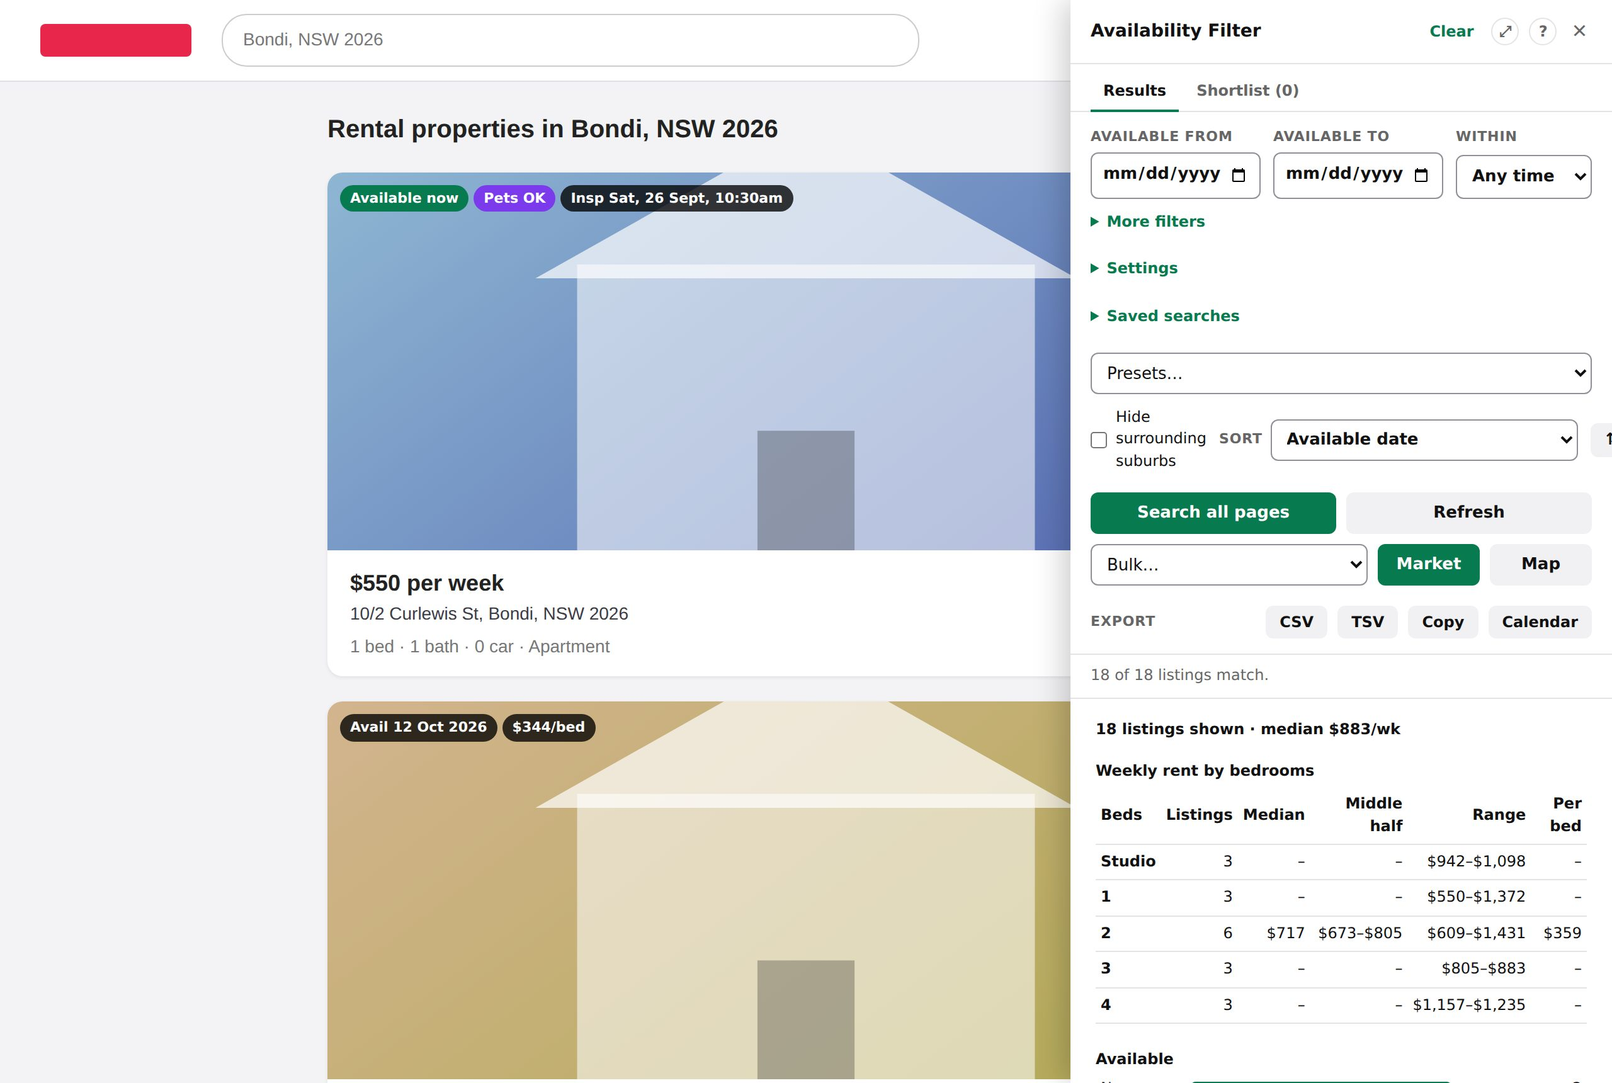
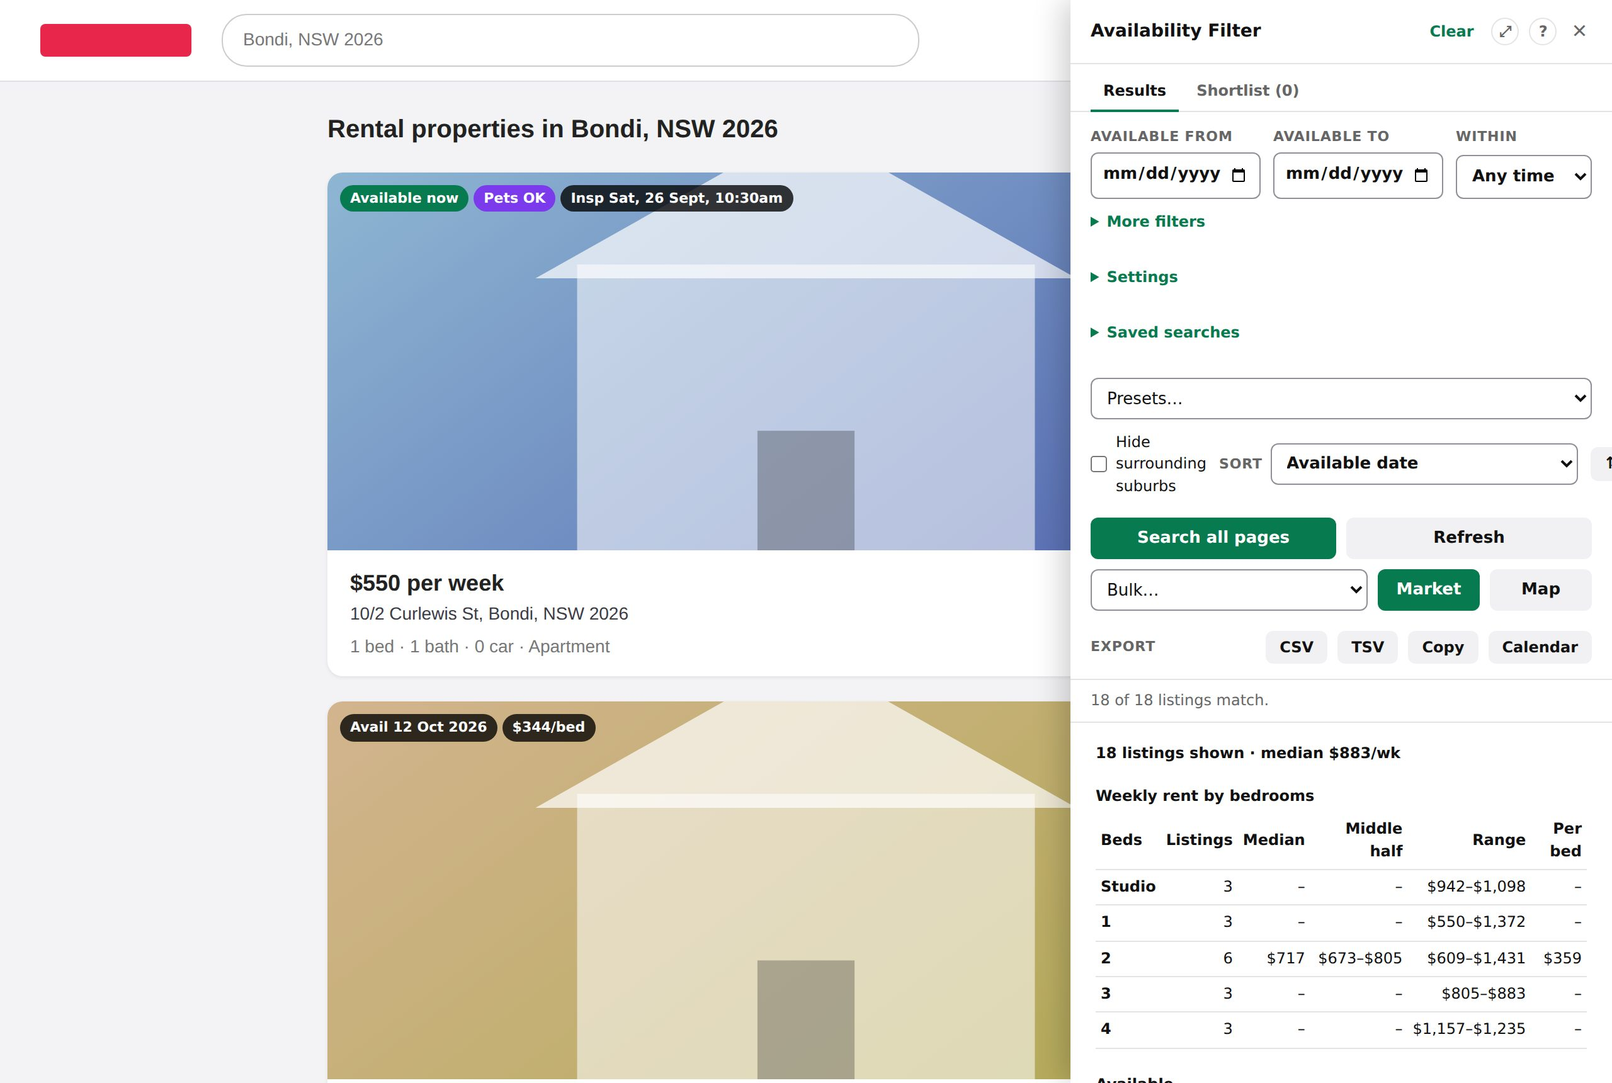
Bump 2.29.0; changelog, what's new, docs (safety copy in PRIVACY and ARCHITECTURE, release steps renumbered) and screenshots without the welcome note

diff --git a/rea-availability-filter.user.js b/rea-availability-filter.user.js
@@ -1,7 +1,7 @@
 // ==UserScript==
 // @name         REA Availability Filter
 // @namespace    https://github.com/cpwillis-pocs/rea-enhancement
-// @version      2.28.0
+// @version      2.29.0
 // @description  Availability-date filtering and sorting, extra filters, cross-page merging, on-card availability badges and CSV/TSV export for realestate.com.au rental searches.
 // @author       cpwillis
 // @homepageURL  https://github.com/cpwillis-pocs/rea-enhancement
@@ -5306,10 +5306,10 @@ ${r.note ? `<div class="n">${esc(r.note)}</div>` : ''}${checklist.length ? `<div
   const DRAWER_MIN = 360, DRAWER_MAX = 900, DRAWER_TWO_COL = 760;
   // Installs auto-update silently, so the drawer says once what changed (lint keeps this in step
   // with @version and the changelog). A first install gets WELCOME instead.
-  const WHATS_NEW = { version: '2.28.0', items: [
-    'Rate shortlisted places 1–5 after an inspection (Shift+1–5), and see your next stop on a listing page.',
-    'Restore now shows what it will change first, and can be undone.',
-    'The map keeps far-away places at its edge; about 1000 listings per search are now remembered.',
+  const WHATS_NEW = { version: '2.29.0', items: [
+    "A safety copy of your shortlist and settings: if this site's storage is wiped, the drawer offers it back.",
+    'Next stop on a listing page stays current and skips declined or taken places; bigger buttons on phones.',
+    "If REA changes its page format, the drawer now says so (with Copy report) instead of pausing as if blocked.",
   ] };
   const WELCOME = [
     'Set a date (or leave it blank) and press Search all pages to read every page of this search.',

diff --git a/test/e2e/screenshots.js b/test/e2e/screenshots.js
@@ -22,6 +22,7 @@ const SEARCH = `${ORIGIN}/rent/in-bondi,+nsw+2026/list-1`;
     await page.clock.install({ time: new Date('2026-09-23T10:00:00+10:00') }); // fixture dates stay meaningful
     await page.route('**/*', serve());
     if (seed) await page.addInitScript((v) => localStorage.setItem('rea-avail-filter/marks/v1', v), JSON.stringify(seed()));
+    await page.addInitScript(() => localStorage.setItem('rea-avail-filter/seen-version', '99.0.0')); // no welcome or what's-new note in the pictures
     await page.goto(url);
     await page.addScriptTag({ content: SCRIPT });
     await page.waitForSelector(ready);

diff --git a/docs/ROADMAP.md b/docs/ROADMAP.md
@@ -2,7 +2,7 @@
 
 Where the project stands, the decisions already taken, what is known not to work perfectly, and ideas that were considered but not built. The feature list is in the [README](../README.md), every change is in the [CHANGELOG](../CHANGELOG.md), and the internals are in [ARCHITECTURE.md](ARCHITECTURE.md).
 
-## Where it stands (v2.28.0)
+## Where it stands (v2.29.0)
 
 The project went from a single-purpose availability-date filter (1.0.0) to a full rental-search companion across 30+ releases. Each area below is built, unit- or e2e-tested, and described in the README.
 
@@ -14,8 +14,8 @@ The project went from a single-purpose availability-date filter (1.0.0) to a ful
 | **Inspecting** | The next stop and your checklist on the listing page, inspection times in the listing's time zone, a day planner with clash detection and a suggested route, calendar export with reminders, after-inspection prompts, cancelled-inspection notices. |
 | **Returning** | Remembered and pinned searches with new / gone listings and a rent trend, Check all, a daily reminder, presets bound to searches, share links, backup and restore. |
 | **Using it** | Side drawer that scrolls as one page (resizable, compact mode, reopens on the listing you were on after a reload, in Results and Shortlist) or expanded near full screen. Full keyboard control, dark mode (system, or set in Settings), phone layout, screen-reader labels (card buttons named per listing), High Contrast styles, a first-run welcome, badges and quick actions on REA's own cards, a bar on listing pages. |
-| **Keeping it working** | Several fallback field paths, discovery by shape, results found by shape if REA renames them, cards found without `<article>` (and a banner if none can be recognised), drift warnings, `reaFilter.selfcheck()` / `probe()` / `shape()` (paste-safe listing structure), storage-full warning, a size budget for remembered searches, a 10-minute pause after a bot check, a double-run guard, a one-time what's-new note after updates. |
-| **Project** | 197 unit tests (including shapes from `reaFilter.shape()`), 67 e2e scenario blocks plus a smoke flow (run three at a time in CI, `E2E_JOBS`), 98%+ UI line coverage, a lint for privacy and storage rules, SECURITY.md and PRIVACY.md, a local live check (`npm run live`), and an on-demand CI pipeline (PRs + manual; no push or schedule triggers, to save Actions minutes). |
+| **Keeping it working** | Several fallback field paths, discovery by shape, results found by shape if REA renames them, cards found without `<article>` (and a banner if none can be recognised), drift warnings, `reaFilter.selfcheck()` / `probe()` / `shape()` (paste-safe listing structure), storage-full warning, a safety copy in IndexedDB, a size budget for remembered searches, a 10-minute pause after a bot check, a double-run guard, a one-time what's-new note after updates. |
+| **Project** | 203 unit tests (including shapes from `reaFilter.shape()`), 70 e2e scenario blocks plus a smoke flow (run three at a time in CI, `E2E_JOBS`), 98%+ UI line coverage, a lint for privacy and storage rules, SECURITY.md and PRIVACY.md, a local live check (`npm run live`), and an on-demand CI pipeline (PRs + manual; no push or schedule triggers, to save Actions minutes). |
 
 ## Decisions already taken
 
@@ -44,24 +44,23 @@ These were raised as questions and settled by the maintainer. Don't reopen them 
 - **Storage is per browser** and shared with REA's own code. Backups (Settings) are the way to move data between browsers. Reviewed marks are only backed up for listings you also shortlisted, hid, noted or gave a status (so storage doesn't grow with every listing you look at).
 - **Floor size is only as good as the listing**: most rentals don't state it, and the text reading can pick a figure that isn't the internal area. Min m² leaves out listings that don't say.
 - **A challenge page that still carries results isn't detected** by the bot-check pause.
-- **Very large remembered searches stay over the size budget**: past about 1000 listings, even packed rows without text add up to more than 400K characters.
+- **Very large remembered searches stay over the size budget**: past about 1100 listings, even packed rows without text add up to more than 400K characters.
 - **The map is a flat projection with straight lines**: fine at suburb scale, no streets, and only listings REA gives coordinates for.
 - **Photo peek assumes REA serves an 800×600 version** of each photo. If it doesn't, the peek falls back to the thumbnail.
 
 ## Ideas not built yet
 
-Everything from the 2.27.0 audit (ten ideas, its bugs and its slow spots) shipped in 2.28.0 (see the [CHANGELOG](../CHANGELOG.md#2280)), except two parts judged not worth their risk: checking a results page after the first for a data blob with no pagination (a false positive would pause every tab), and throttling status announcements (the status line is already `aria-busy` during searches, Check all and Re-check). Still open from earlier: doing the end-of-search save in a later task, and merging the stores' try-save-report code and the `SORTS` / `SORT_UNKNOWN` accessors. Run a fresh audit for the next list. When you build one, move it into the CHANGELOG, update this page, and add its e2e block (lint checks the count in [ARCHITECTURE.md](ARCHITECTURE.md#tests-at-a-glance)).
+Everything from the 2.28.0 audit (ten ideas, its bugs and its slow spots) shipped in 2.29.0 (see the [CHANGELOG](../CHANGELOG.md#2290)), except, as not worth their risk: pruning old marks outside the page-load task (deferring it would let short visits skip it for good), a per-entry cache for the marks store's writes, keeping remembered searches packed in memory until read, and merging the `SORTS` / `SORT_UNKNOWN` accessors. Also still open: doing the end-of-search save in a later task. The code is not split into modules: install, update, the dev stub, coverage and lint all assume one file; revisit around 8000 lines, or if `build()` passes its lint budget. Run a fresh audit for the next list.
 
 ## Releasing
 
-1. `npm run release x.y.z` bumps `@version`, adds a CHANGELOG stub and updates the version and test counts here and in ARCHITECTURE.md (lint checks the version and e2e block count). Fill in the CHANGELOG section.
-1. `npm run ci` and `COVERAGE_MIN=98 npm run coverage` pass locally.
-1. `npm run live` passes (local only: one real search, core paths, card detection). If it saves a shape that differs from the last one in `test/shapes/`, check it has nothing personal and commit it.
-2. Bump `// @version`, and add a `## x.y.z` section at the top of CHANGELOG.md.
-3. For a release worth announcing, update `WHATS_NEW` (at most 3 short lines). Lint checks its version.
-4. If the UI changed visibly, run `npm run screenshots` and commit `docs/screenshots`.
-5. Bump `ROWS_VERSION` or `FEAT_V` if their rules apply ([ARCHITECTURE.md](ARCHITECTURE.md#versions-that-must-move)).
-6. Push to `main`. Installs auto-update from the raw file URL.
+1. `npm run release x.y.z`: bumps `@version`, adds a CHANGELOG stub, updates the version and test counts here and in ARCHITECTURE.md (lint checks the version and e2e block count), and warns when there is no recent real shape. Fill in the CHANGELOG section.
+2. For a release worth announcing, update `WHATS_NEW` (at most 3 short lines). Lint checks its version.
+3. Bump `ROWS_VERSION` or `FEAT_V` if `test/versions.test.js` says so ([ARCHITECTURE.md](ARCHITECTURE.md#versions-that-must-move)).
+4. If the UI changed visibly, `npm run screenshots` and commit `docs/screenshots`.
+5. `npm run ci` (lint, unit, smoke, edge, accessibility) and `COVERAGE_MIN=98 npm run coverage` pass locally.
+6. `npm run live` passes (local only: one real search and one listing page). If it saves a shape, check it has nothing personal and commit it.
+7. Push to `main`. Installs auto-update from the raw file URL.
 
 ## Before going public
 

diff --git a/docs/ARCHITECTURE.md b/docs/ARCHITECTURE.md
@@ -8,8 +8,8 @@ The userscript is a single IIFE with `@grant none` and no dependencies. A `typeo
 
 | Half | Contents | Tested by |
 |---|---|---|
-| **Pure** (above the guard) | Parsing REA's page data, text heuristics, filters and sorts, medians, route planning, exports (CSV/TSV/ICS/print), share links, and the storage stores (`rowStore`, `marksStore`, `snapshotStore`, `presetStore`, `healthStore`) with an injectable `storage` and clock. Exported with `module.exports`. | `test/*.test.js` (node:test) |
-| **UI** (below the `// ----- ui` marker) | The drawer (`panelHtml()` is its markup; `build()` wires it, with `wireKeys()`, `wireList()`, `wireResize()` and `wirePeek()` split out), REA card badges, the listing-page bar, SPA navigation, keyboard handling, notes by the launcher. | `test/e2e/smoke.js`, `test/e2e/edge.js` (Playwright, fixture pages on the REA origin) |
+| **Pure** (above the guard) | Parsing REA's page data, the views drawn in place of the list (`planHtml`, `mapHtml`, `marketHtml`, `compareHtml`), text heuristics, filters and sorts, medians, route planning, exports (CSV/TSV/ICS/print), share links, and the storage stores (`rowStore`, `marksStore`, `snapshotStore`, `presetStore`, `healthStore`) with an injectable `storage` and clock. Exported with `module.exports`. | `test/*.test.js` (node:test) |
+| **UI** (below the `// ----- ui` marker) | The drawer (`panelHtml()` is its markup; `build()` wires it, with `wireKeys()`, `wireList()`, `wireResize()`, `wirePeek()` and `wireShortlistBar()` split out; lint keeps `build()` under 480 lines), REA card badges, the listing-page bar, SPA navigation, keyboard handling, notes by the launcher. | `test/e2e/smoke.js`, `test/e2e/edge.js` (Playwright, fixture pages on the REA origin) |
 
 New logic goes in the pure half wherever possible, with a unit test.
 
@@ -32,7 +32,7 @@ All keys start with `TOOL_PREFIX = 'rea-avail-filter/'`. The lint rule enforces 
 |---|---|---|---|
 | `v1` | localStorage | Settings (`DEFAULT_CFG` keys, sanitised by type). `building` is never saved. | none |
 | `marks/v1` | localStorage | Per-listing marks (see below), plus hidden agencies (`ag`) and hidden suburbs (`sb`) | 5000 listings; unmarked ones are dropped 90 days after they were last seen |
-| `snapshots/v1` | localStorage | Remembered searches: slim rows, ids and baseline for "new since last visit", gone rows, `pin`, `lite`, `trend`; stored packed (`f: 2`, column names in `rk`, rows as arrays, REA's URL prefixes dropped), read back as objects, older unpacked entries still read (one point per visit: count and median rent per bed count, at most 12) | 3 searches (pinned kept first), 300 characters of text per field, about 400K characters per search (`SNAP_ENTRY_BUDGET`: past it the rows furthest down lose their text, then gone rows theirs, then rows their features and headlines, then gone rows go; the entry is marked `lite`. Packed rows need about 400 characters each even then, so above roughly 1000 listings an entry stays over budget) |
+| `snapshots/v1` | localStorage | Remembered searches: slim rows, ids and baseline for "new since last visit", gone rows, `pin`, `lite`, `trend`; stored packed (`f: 3`, column names in `rk`, rows as arrays, REA's URL prefixes dropped, amenities as `"pets,!gas"`, coordinates to 5 decimals; `f: 2` from 2.28 still reads), read back as objects, older unpacked entries still read (one point per visit: count and median rent per bed count, at most 12) | 3 searches (pinned kept first), 300 characters of text per field, about 400K characters per search (`SNAP_ENTRY_BUDGET`: past it the rows furthest down lose their text, then gone rows theirs, then rows their features and headlines, then gone rows go; the entry is marked `lite`. Packed rows need about 360 characters each even then, so above roughly 1100 listings an entry stays over budget) |
 | `presets/v1` | localStorage | Named filter presets, and the search each is bound to | none |
 | `health/v1` | localStorage | Moving average of how often each field is filled, for drift warnings | none |
 | `rows/<search>` | sessionStorage | This tab's results cache, versioned by `ROWS_VERSION` | 2 searches, 10 minutes |
@@ -40,6 +40,7 @@ All keys start with `TOOL_PREFIX = 'rea-avail-filter/'`. The lint rule enforces 
 | `place` | sessionStorage | Per search (and one for the Shortlist tab): the listing you were on, how many were shown, and the filters it applies to | 10 entries |
 | `lbar-min`, `wide`, `width`, `seen-version`, `remind-at` | localStorage | Listing bar minimised, expanded drawer, drawer width, last what's-new version, saved-search reminder time | none |
 | `paused` | localStorage | When fetching may resume after a bot check, for every tab (`storage` events update the others); removed once past | one timestamp |
+| `mirror` (IndexedDB database `rea-avail-filter/mirror`, store `kv`, key `copy`) | IndexedDB | A safety copy of what a backup holds (marks you chose, presets, settings), written 2 s after a change, never overwritten with an empty shortlist; offered back when marks are found empty; Cancel or Delete all my data deletes it | one copy |
 | `backup-at`, `backup-nudge-at` | localStorage | When you last downloaded a backup, and when the "no backup" reminder last showed | none |
 
 A failed write of something you chose (marks, settings, presets) goes to `writeState`, and the UI shows a "storage full" banner until a later write succeeds.
@@ -100,7 +101,7 @@ These are all pure and unit-tested, and all can be wrong. Each has a negative-ca
 
 ## Tests at a glance
 
-- **Unit:** `test/*.test.js` (197 tests): pure functions and stores, with a frozen clock (`test/clock.js`) and `memStorage` (`test/helpers.js`). They pass in any time zone; CI runs the Node 20 job in Los Angeles time.
+- **Unit:** `test/*.test.js` (203 tests): pure functions and stores, with a frozen clock (`test/clock.js`) and `memStorage` (`test/helpers.js`). They pass in any time zone; CI runs the Node 20 job in Los Angeles time.
 - **E2E:** `test/e2e/smoke.js` covers the main flow, including 150-listing chunked rendering. `test/e2e/edge.js` has one numbered block per feature or edge path (70 blocks, numbered 1–56 with lettered sub-blocks such as 24l). Run just some with `E2E_ONLY=24l,35`, or several at once with `E2E_JOBS=4` (`npm run e2e:fast`; CI uses 3).
 - **Coverage:** `npm run coverage` merges the UI-half line coverage from both e2e files; `COVERAGE_MIN=98` (set by the on-demand CI coverage job, not on PRs) fails the run below 98%.
 - **Shapes:** `test/shapes.test.js` rebuilds a listing from each `test/shapes/*.json` (`reaFilter.shape()` output) and checks it still parses.

diff --git a/CHANGELOG.md b/CHANGELOG.md
@@ -2,6 +2,27 @@
 
 Versions match the userscript's `@version`; installs auto-update from `main` when it increases.
 
+## 2.29.0
+
+- **Safety copy**: your shortlist, notes, statuses, presets and settings are also kept in this browser's IndexedDB. If REA's page or a cleanup wipes the storage the script shares with it, the drawer says so and offers them back (with the restore preview and Undo); Cancel discards the copy. Delete all my data deletes it too.
+- **A format change isn't mistaken for a bot check**: page data written with spaces still reads, and a full-size REA page without it shows "REA may have changed its format" with Copy report, instead of pausing fetching in every tab.
+- **Next stop stays current**: it skips removed, hidden, declined and taken listings, says "leave now" once that time has passed, and updates every minute while you're on the listing page.
+- **Bigger touch targets**: every control is at least 24px, and 44px on touch screens (the listing bar, checklist and rating most of all). The accessibility check now covers WCAG 2.2 and a phone.
+- **Presets and Saved searches follow other tabs.**
+- **The script's own errors** in keys, card badges, the listing bar and other-tab updates are logged for `reaFilter.selfcheck()`, and three in a minute show a warning with Copy report.
+- `reaFilter.shape()` works on a listing page (as `kind: "listing"`); `npm run live` checks one listing page too and keeps a shape of each kind; `npm run release` warns when there's no recent real shape.
+- Fixed:
+  - Links and images in the shortlist, Compare and printouts must be REA's, whatever a backup says.
+  - Big remembered searches drop their no-longer-listed rows before going over the size budget.
+  - On AZERTY and similar keyboards, the 1–5 status keys work again (they were read as ratings).
+  - Unrated listings export blank, not 0.
+  - Calendar: a session REA cancels and then reinstates is live again when the newer file is imported; a day's export carries only that day's cancellations.
+  - A restore's Undo goes away once another tab changes things, so it can't undo that tab too.
+  - A pasted packed search imports with its listings; a bad redirect address counts as "no longer listed".
+  - Clicking the launcher in the moment after a reload now opens on the listing you were on.
+- Faster: a star, rating or checklist click rebuilds only that listing (about half the time with 1000 shown); Shortlist rows are reused while unchanged; remembered searches reuse their stored form for sizes and saving, and store amenities and coordinates more compactly.
+- Internals: the day planner, map, market and compare views are in the pure half with unit tests; the Shortlist bar's wiring moved out of `build()` (632 → 474 lines, with a lint budget); one save helper for settings and presets.
+
 ## 2.28.0
 
 - **Your rating** (1–5) for shortlisted listings, after an inspection: on the Shortlist tab (Shift+1–5), on the listing-page bar, in Compare, and in CSV and print.

diff --git a/README.md b/README.md
@@ -71,7 +71,7 @@ Updates are automatic: Tampermonkey checks `@updateURL` (the file on `main`) and
 - **Plan an inspection day**: shortlisted inspections in order with clashes and tight travel gaps flagged, plus a **suggested route** that fits in as many listings as can be reached in time (one session each, "to inspect" ones first), exportable to your calendar as the whole day or just the route.
 - **Re-check** shortlisted listings to refresh price, availability and inspections from their pages, and spot ones taken down.
 - **Share** the shortlist as a link or **Print** it for open homes. The shared data sits in the link's `#` fragment, which browsers don't send to REA's servers; REA's own page scripts could read it before the script clears it, and wherever you paste the link keeps a copy.
-- **Backup / Restore** the shortlist, hidden listings, notes, remembered searches and your settings as a JSON file, eg to move to another browser. Settings shows when you last backed up; a restore says what it will change first and can be undone.
+- **Backup / Restore** the shortlist, hidden listings, notes, remembered searches and your settings as a JSON file, eg to move to another browser. Settings shows when you last backed up; a restore says what it will change first and can be undone. A **safety copy** in the browser's IndexedDB is offered back if this site's storage gets wiped.
 - **Remembers each search between visits** (on by default; a setting turns it off and forgets what's stored). Coming back shows the saved results straight away, and **Refresh** fetches current listings and diffs them: listings added since your last visit are tagged **new** (filter: "New since last visit only"), and ones taken down are counted and can be shown greyed out. Sort **Newest first** to see additions in order of listing.
 - **Saved searches**: see your remembered searches (with a rent trend across visits) and **Check all for new listings** in one click (each fetched one page at a time), with an optional once-a-day reminder. **Pin** a search to keep it when you open others (3 are remembered); you're told when one is forgotten.
 - **Opened tracking**: "opened 2d ago" on listings you've looked at, and a **Not opened yet** filter.

diff --git a/PRIVACY.md b/PRIVACY.md
@@ -14,8 +14,9 @@ Everything is in your browser, under keys starting `rea-avail-filter/`. The full
 | Remembered searches (slim rows for "new since last visit") | localStorage | The 3 most recent, pinned kept first |
 | Results cache, place in the list | sessionStorage | This tab only; cleared when it closes |
 | Bot-check pause, last backup time | localStorage | The pause removes itself after 10 minutes |
+| A safety copy of your choices, presets and settings | IndexedDB (`rea-avail-filter/mirror`), also on realestate.com.au | Until you Cancel its restore offer or Delete all my data; REA's scripts can read it, like the rest |
 
-**Settings → Delete all my data** removes every key. **Backup** downloads your choices and settings (places, checklist, enquiry template, lease end, income, weights, theme) as a JSON file on your machine; nothing is uploaded.
+**Settings → Delete all my data** removes every key and the safety copy. **Backup** downloads your choices and settings (places, checklist, enquiry template, lease end, income, weights, theme) as a JSON file on your machine; nothing is uploaded.
 
 ## What REA's own page can see
 
